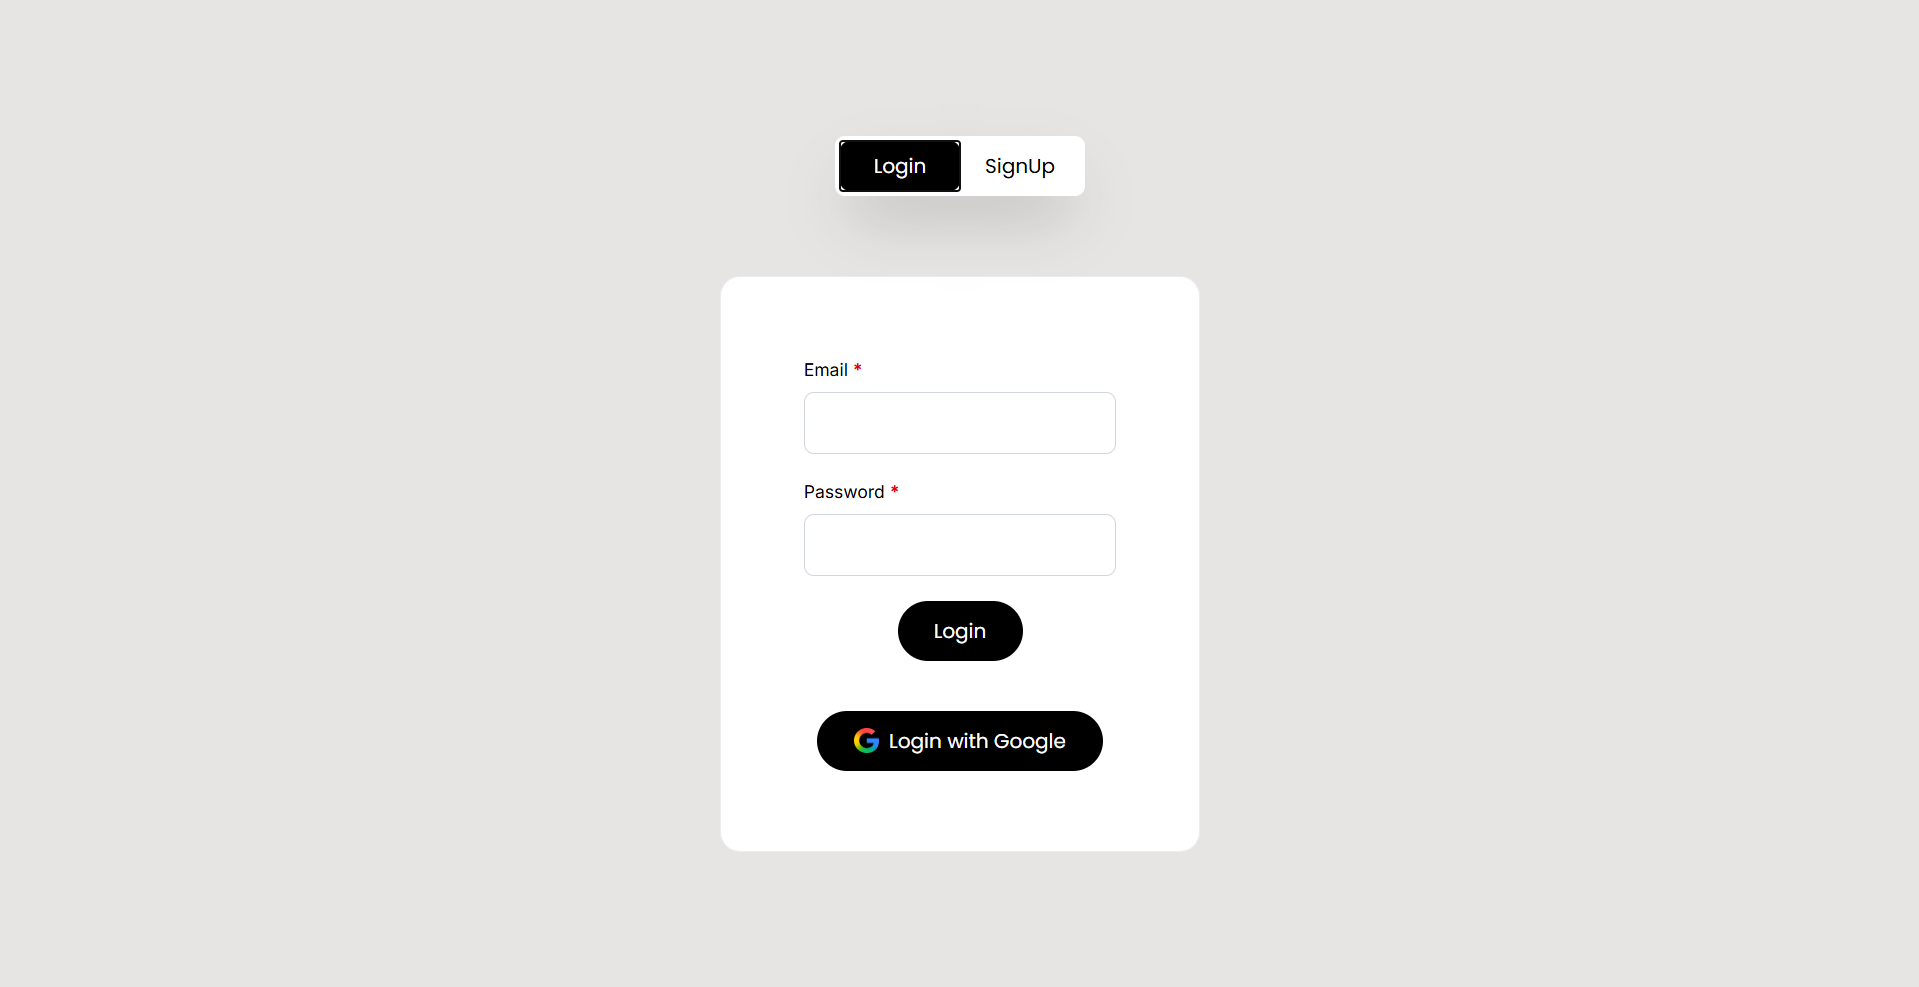
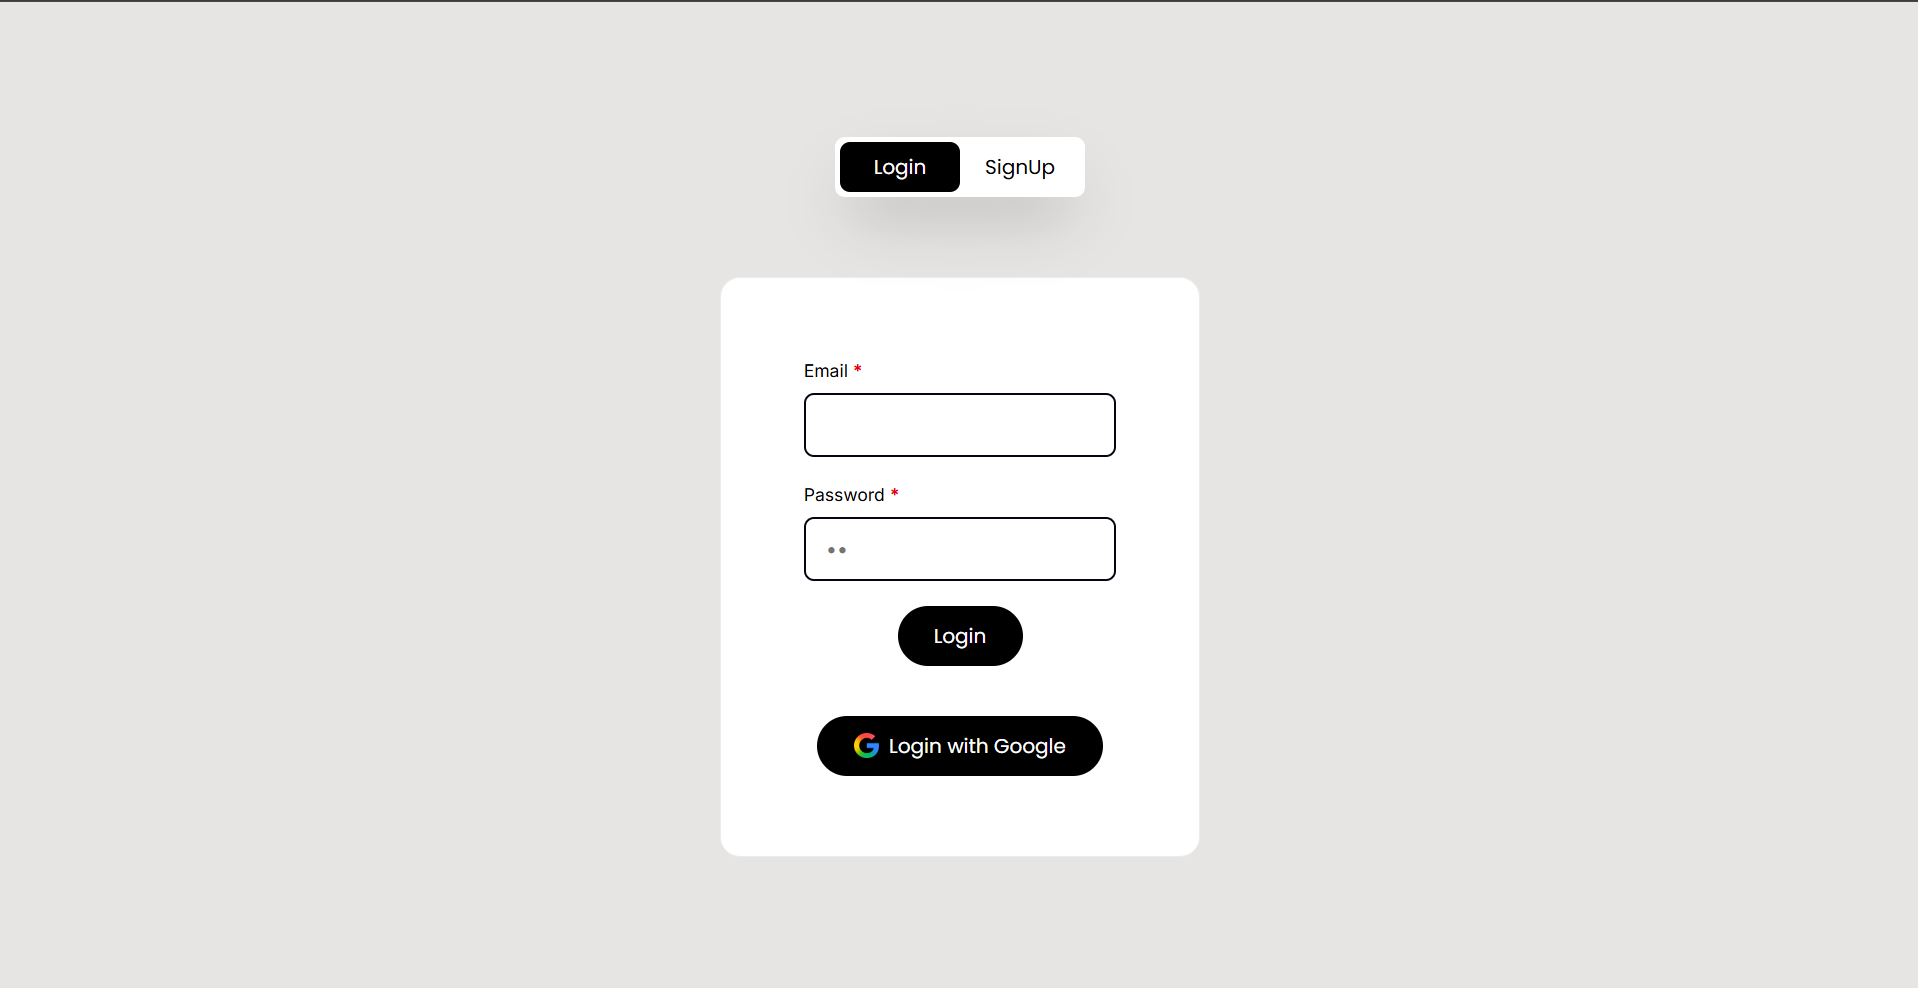
fixed CORS errors

diff --git a/FrontEnd/src/pages/Auth.tsx b/FrontEnd/src/pages/Auth.tsx
@@ -4,15 +4,17 @@ import React, { useState } from "react";
 import GoogleIcon from "../assets/Google_Symbol_2.webp";
 
 export const Auth = () => {
+
     const [isLogin, setLogin] = useState(true);
 
     const [Email, setEmail] = useState("someone@gmail.com");
-    
+
     const [Fname, setFname] = useState("Steve");
-    
-    const [Lname, setLname] = useState("Smith");
-    
+
+    const [Lname, setLname] = useState("");
+
     const [Pass, setPass] = useState("");
+
     const HandleLogin = async (e: React.FormEvent) => {
         e.preventDefault();
         try {
@@ -30,26 +32,32 @@ export const Auth = () => {
         }
     };
 
-    const HandleSignUp = async () => { 
+    const HandleSignUp = async (e: React.FormEvent) => {
+        e.preventDefault()
         try {
-            const res = await axios.post({
+            const res = await axios.post("http://localhost:2026/auth/register", {
+                FName: Fname,
+                LName: Lname,
                 Email: Email,
                 Password: Pass,
+
             })
-            if (res) { 
+            if (res) {
                 alert("account created successfully")
                 console.log(res);
-                
+
             }
-            
+
         } catch (error) {
             console.error(error)
-            
+
         }
     }
 
+
     return (
         <div className="w-full min-h-screen flex flex-col items-center justify-center">
+
             <div className="relative w-full max-w-50 bg-wh shadow-2xl border-gray-700/80 rounded-lg mb-16 flex justify-evenly p-1">
                 <div
                     className={`absolute w-[calc(50%-4px)] left-1 top-1 bottom-1 bg-black rounded-lg transition-transform duration-300 ease-out py-2 ${isLogin ? "translate-x-0" : "translate-x-full"}`}
@@ -92,7 +100,7 @@ export const Auth = () => {
                                 value={Email}
                                 type="email"
                                 id="e"
-                                className=" w-full px-4 py-3 rounded-lg border border-gray-300 outline-none focus:border-gray-500/50"
+                                className=" w-full px-4 py-3 rounded-lg border-2 border-gray-950 outline-none focus:border-gray-500/50"
                             />
                         </div>
                         <div className="flex flex-col gap-2 w-full">
@@ -106,7 +114,7 @@ export const Auth = () => {
                                 onChange={(e) => {
                                     setPass(e.target.value);
                                 }}
-                                className=" w-full px-4 py-3 rounded-lg border border-gray-300 outline-none focus:border-gray-500/50"
+                                className=" w-full px-4 py-3 rounded-lg border-2 border-gray-950 outline-none focus:border-gray-500/50"
                             />
                         </div>
                         <div className="w-full flex justify-center">
@@ -135,16 +143,16 @@ export const Auth = () => {
 
                 <div className="w-full max-w-lg py-16 border border-gray-400/20 rounded-2xl bg-white flex flex-col items-center justify-center">
                     <form
-                        onSubmit={HandleLogin}
+                        onSubmit={HandleSignUp}
                         className="w-full max-w-103 flex flex-col justify-center items-center gap-3.5"
                     >
                         <div className="w-full flex gap-2.5 ">
 
                             <div className=" w-1/2 flex flex-col gap-2">
                                 <label htmlFor="e" className="text-sm text-black font-body">
-                                    First Name
-                                    </label>
-                                
+                                    First Name<span className="text-red-600 font-bold">*</span>
+                                </label>
+
                                 <input
                                     onChange={(e) => {
                                         setFname(e.target.value);
@@ -154,7 +162,7 @@ export const Auth = () => {
                                     }}
                                     value={Fname}
                                     id="e"
-                                    className=" w-full px-2 py-2 rounded-lg border border-gray-300 outline-none focus:border-gray-500/50"
+                                    className=" w-full px-2 py-2 rounded-lg border-2 border-gray-950 outline-none focus:border-gray-500/50"
                                 />
                             </div>
 
@@ -171,7 +179,7 @@ export const Auth = () => {
                                     }}
                                     value={Lname}
                                     id="e"
-                                    className=" w-full px-2 py-2 rounded-lg border border-gray-300 outline-none focus:border-gray-500/50"
+                                    className=" w-full px-2 py-2 rounded-lg border-2 border-gray-950 outline-none focus:border-gray-500/50"
                                 />
                             </div>
 
@@ -190,7 +198,7 @@ export const Auth = () => {
                                 value={Email}
                                 type="email"
                                 id="e"
-                                className=" w-full px-2 py-2 rounded-lg border border-gray-300 outline-none focus:border-gray-500/50"
+                                className=" w-full px-2 py-2 rounded-lg border-2 border-gray-950 outline-none focus:border-gray-500/50"
                             />
                         </div>
                         <div className="flex flex-col gap-2 w-full">
@@ -204,7 +212,7 @@ export const Auth = () => {
                                 onChange={(e) => {
                                     setPass(e.target.value);
                                 }}
-                                className=" w-full p-2 rounded-lg border border-gray-300 outline-none focus:border-gray-500/50"
+                                className=" w-full p-2 rounded-lg border-2 border-gray-950 outline-none focus:border-gray-500/50"
                             />
                         </div>
                         <div className="w-full flex justify-center">

diff --git a/BackEnd/src/auth/auth.controller.ts b/BackEnd/src/auth/auth.controller.ts
@@ -10,16 +10,16 @@ import { GenerateToken } from "./utils";
 
 const RegisterUser = async (req: Request, res: Response) => {
   try {
-    const { Name, Email, Password } = req.body;
+    const { FName, LName, Email, Password } = req.body;
 
-    if (!Name || !Email || !Password) {
+    if (!FName || !Email || !Password) {
       return SendError(res, 404, "All field are required.");
     }
     const ExistingUser = await User.findOne({ Email });
     if (ExistingUser) {
       return SendError(res, 500, "Account already exist.");
     }
-    const NewUser = new User({ Name, Email, Password });
+    const NewUser = new User({ FName, LName, Email, Password });
     await NewUser.save();
 
     const AccessToken = GenerateToken(

diff --git a/BackEnd/src/auth/user.model.ts b/BackEnd/src/auth/user.model.ts
@@ -1,7 +1,8 @@
 import mongoose, { Schema } from "mongoose";
 
 type UserType = {
-    Name: string
+    FName: string
+    LName: string
     Email: string
     Provider: "local" | "google"
     Password?: string
@@ -11,9 +12,13 @@ type UserType = {
 // Generics allow us to pass types as parameters to functions and classes keeping strict type safety.
 
 const UserSchema = new mongoose.Schema<UserType>({
-    Name: {
+    FName: {
         type: String,
-        required: [true, "name is required"]
+        required: [true, "Fname is required"]
+    },
+    LName: {
+        type: String,
+        required: false
     },
     Email: {
         type: String,

diff --git a/BackEnd/src/app.ts b/BackEnd/src/app.ts
@@ -15,7 +15,10 @@ const app=express()
 app.use(express.json())
 app.use(morgan("dev"))
 app.use(cookieParser())
-app.use(cors())
+app.use(cors({
+    origin: "http://localhost:2024",
+    credentials: true
+}))
 app.use("/auth/",AuthRouter)
 app.use("/products", ProductRouter)
 app.use("/cart", CartRouter)

diff --git a/readme.md b/readme.md
@@ -2,8 +2,10 @@
 
 - [Introduction](#introduction)
 - [Ui screenshots](#Uiscreenshots)
-   ### 🔑 Login Page
+   ### Login Page
 - ![Login Page](./Docs/Login%20Page.png)
+   ### SignUp Page
+- ![SignUp Page](./Docs/SignUp%20Page.png)
 - [Features](#features)
 - [Installation](#installation)
 - [Usage](#usage)
